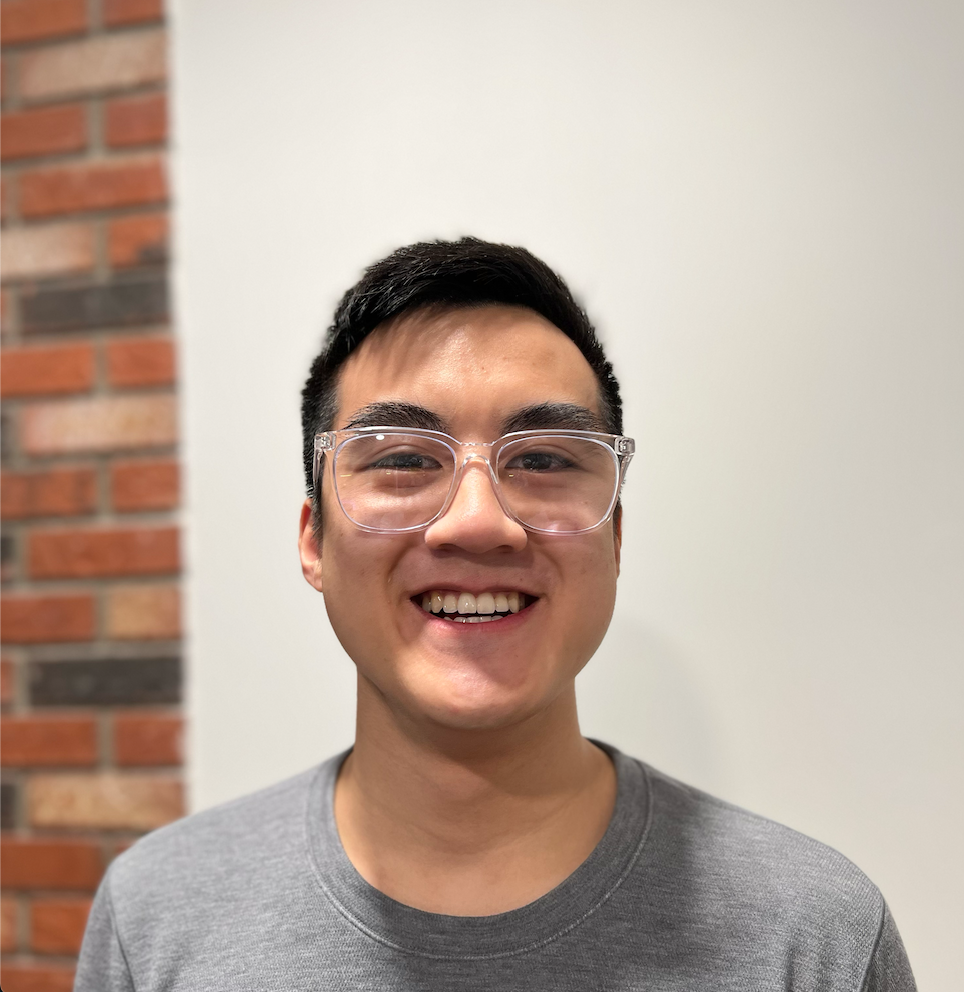
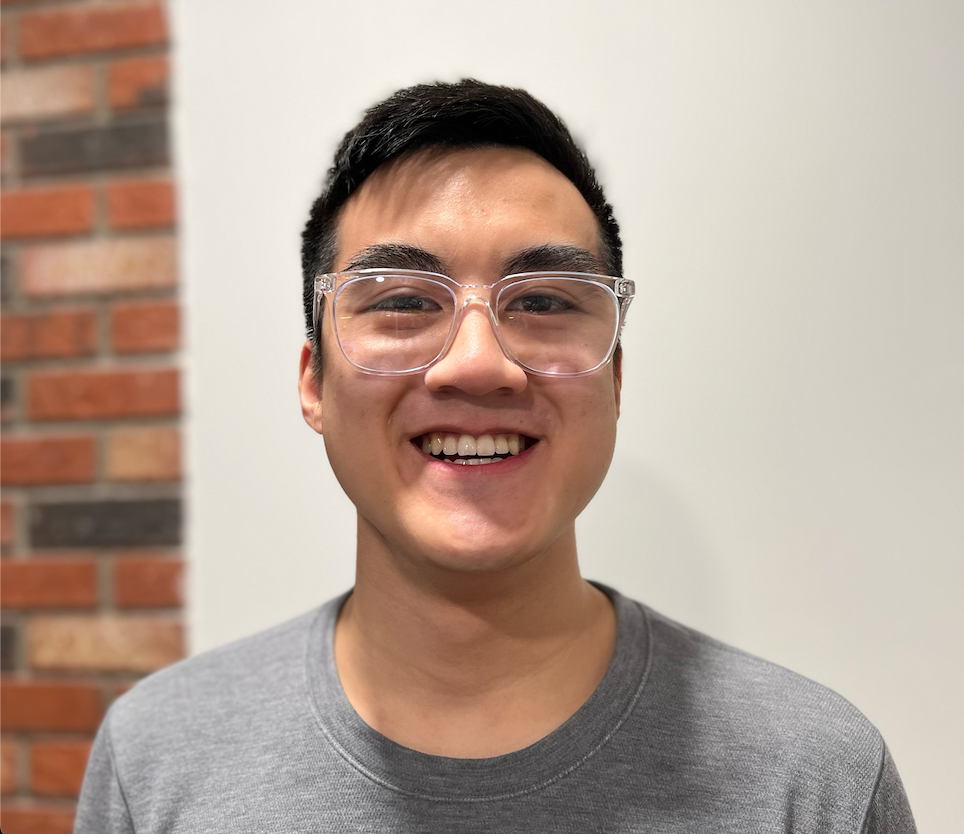
corrected mobile scaling

diff --git a/src/pages/index.js b/src/pages/index.js
@@ -43,20 +43,23 @@ export default function Home() {
     <Box minH={"100vh"} display={"flex"} flexDirection={"column"} flexGrow={1}>
       <Header></Header>
       <Flex alignItems="center" direction="column" minH="100vh">
+        {/* <Box boxSize="sm" alignItems="center" justifyContent={"center"}> */}
         <Image
           p={10}
-          boxSize="lg"
+          objectFit="cover"
+          boxSize="400px"
           borderRadius="full"
           src="/images/d.png"
           alt="profile"
         />
+        {/* </Box> */}
         <Flex direction="column" alignItems="center" justifyContent="top">
-          <Heading size={"2xl"} mb={6}>
+          <Heading size={"2xl"} paddingX={10}>
             Dennis Truong
           </Heading>
 
-          <Text mb={6}>
-            Student with experience in JavaScript, Java, C++, and Python.
+          <Text mb={6} p={10}>
+            Student with experience in Typescript, Java, C++, and Python.
           </Text>
 
           <Tabs

diff --git a/src/pages/tabs/profile.js b/src/pages/tabs/profile.js
@@ -58,6 +58,7 @@ const Profile = () => {
         >
           Gordon Lab
         </Link>
+        .
       </Text>
 
       <br />
